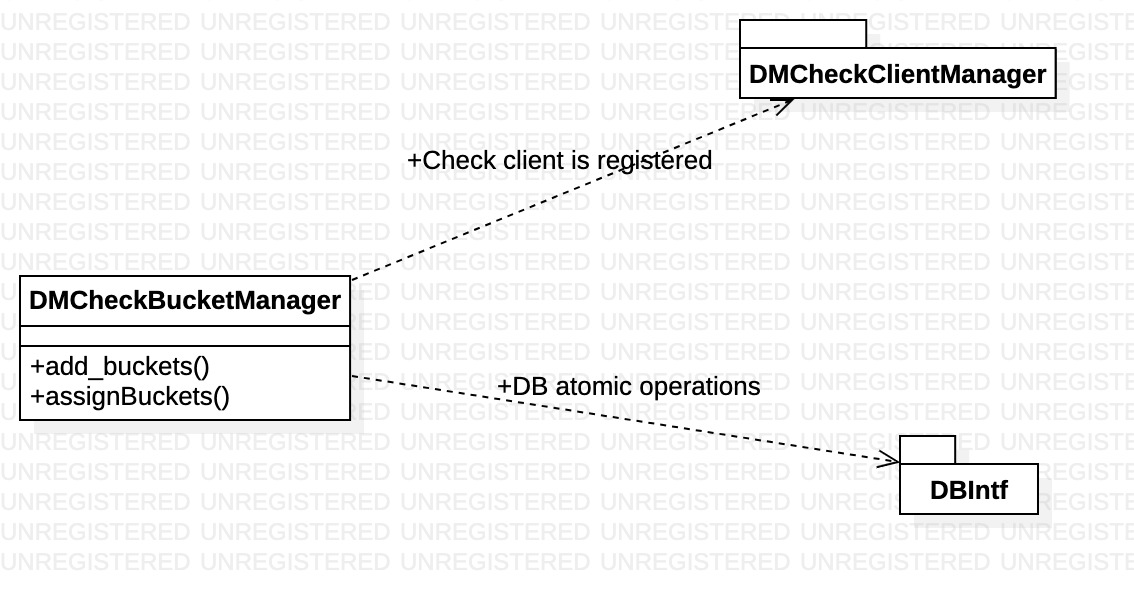
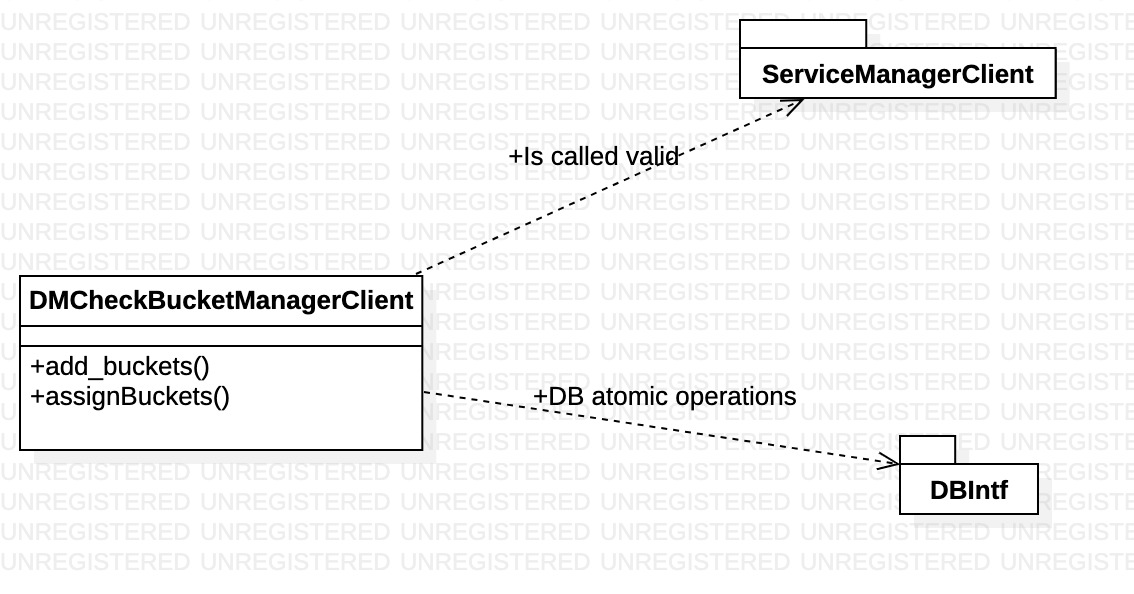
DM check design document updation

diff --git a/docker/features/libs/dmcheck_buckets_manager_client.py b/docker/features/libs/dmcheck_buckets_manager_client.py
@@ -85,7 +85,6 @@ class DMCheckBucketManagerClient:
         cantdm_users = [user for user in users if user['candm'].upper()=="NON_DM"]
         unknown_users = [user for user in users if user['candm'].upper()=="UNKNOWN"]
         bucket_for_db = {'bucket_id': bucket_id, 'candm_users':candm_users, 'cantdm_users':cantdm_users, 'unknown_users':unknown_users}
-        #TODO: Try to make atomic for each bucket
         self.dataStoreIntf.store_processed_data_for_bucket(client_id=self.client_id, bucket=bucket_for_db)
 
     def __client_sanity_passed(self):

diff --git a/docker/design/dmcheck-parallel/dmcheck_design.md b/docker/design/dmcheck-parallel/dmcheck_design.md
@@ -24,12 +24,14 @@
 	* 6.1. [Client Manager component](#ClientManagercomponent)
 		* 6.1.1. [Class Diagram](#ClassDiagram)
 		* 6.1.2. [Sequence diagram for client registration flow](#Sequencediagramforclientregistrationflow)
+		* 6.1.3. [Sequence diagram for client interaction to system](#Sequencediagramforclientinteractiontosystem)
 	* 6.2. [Bucket manager component](#Bucketmanagercomponent)
 		* 6.2.1. [Class diagram](#Classdiagram)
-		* 6.2.2. [Sequence diagram for making buckets](#Sequencediagramformakingbuckets)
-		* 6.2.3. [Sequence diagram for  Assigning buckets to client](#SequencediagramforAssigningbucketstoclient)
-		* 6.2.4. [Sequence diagram for processing DM Check info update from client](#SequencediagramforprocessingDMCheckinfoupdatefromclient)
-		* 6.2.5. [Sequence diagram for releasing indiefintely locked buckets](#Sequencediagramforreleasingindiefintelylockedbuckets)
+		* 6.2.2. [Sequence diagram for DMCheck bucket monitoring flow](#SequencediagramforDMCheckbucketmonitoringflow)
+		* 6.2.3. [Sequence diagram for making buckets](#Sequencediagramformakingbuckets)
+		* 6.2.4. [Sequence diagram for  Assigning buckets to client](#SequencediagramforAssigningbucketstoclient)
+		* 6.2.5. [Sequence diagram for processing DM Check info update from client](#SequencediagramforprocessingDMCheckinfoupdatefromclient)
+		* 6.2.6. [Sequence diagram for releasing indiefintely locked buckets](#Sequencediagramforreleasingindiefintelylockedbuckets)
 * 7. [Database design](#Databasedesign)
 	* 7.1. [Database interface decisions](#Databaseinterfacedecisions)
 	* 7.2. [Nodes and relationships design](#Nodesandrelationshipsdesign)
@@ -182,20 +184,28 @@ To avoid this condition at all, we can first mark the bucket as dead and after s
 ###  6.1. <a name='ClientManagercomponent'></a>Client Manager component
 ####  6.1.1. <a name='ClassDiagram'></a>Class Diagram
 ![image info](./data/dmcheck_client_manager.jpg)
+![image info](./data/classdiagram_DMCheck_client_manger.jpg)
 ####  6.1.2. <a name='Sequencediagramforclientregistrationflow'></a>Sequence diagram for client registration flow
 ![image info](./data/client_registration_flow.jpg)
+
+####  6.1.3. <a name='Sequencediagramforclientinteractiontosystem'></a>Sequence diagram for client interaction to system
+![image info](./data/sequence_Client_interaction_to_system.jpg)
 
 ###  6.2. <a name='Bucketmanagercomponent'></a>Bucket manager component
 ####  6.2.1. <a name='Classdiagram'></a>Class diagram
 ![image info](./data/DMCheckBucketManagerClasses.jpg)
-####  6.2.2. <a name='Sequencediagramformakingbuckets'></a>Sequence diagram for making buckets
+
+####  6.2.2. <a name='SequencediagramforDMCheckbucketmonitoringflow'></a>Sequence diagram for DMCheck bucket monitoring flow
+![image info](./data/sequence_dmcheck_bucket_monitor.jpg)
+
+####  6.2.3. <a name='Sequencediagramformakingbuckets'></a>Sequence diagram for making buckets
 ![image info](./data/dmcheck_make_buckets.jpg)
-####  6.2.3. <a name='SequencediagramforAssigningbucketstoclient'></a>Sequence diagram for  Assigning buckets to client
+####  6.2.4. <a name='SequencediagramforAssigningbucketstoclient'></a>Sequence diagram for  Assigning buckets to client
 ![image info](./data/AssignBucketsToClients.jpg)
 
-####  6.2.4. <a name='SequencediagramforprocessingDMCheckinfoupdatefromclient'></a>Sequence diagram for processing DM Check info update from client
+####  6.2.5. <a name='SequencediagramforprocessingDMCheckinfoupdatefromclient'></a>Sequence diagram for processing DM Check info update from client
 ![image info](./data/StoreClientProvidedDMInfo.jpg)
-####  6.2.5. <a name='Sequencediagramforreleasingindiefintelylockedbuckets'></a>Sequence diagram for releasing indiefintely locked buckets
+####  6.2.6. <a name='Sequencediagramforreleasingindiefintelylockedbuckets'></a>Sequence diagram for releasing indiefintely locked buckets
 Such bucket which is acquired by client, but client has not updated for long time
 ![image info](./data/DeadBucketHandler.jpg)
 
